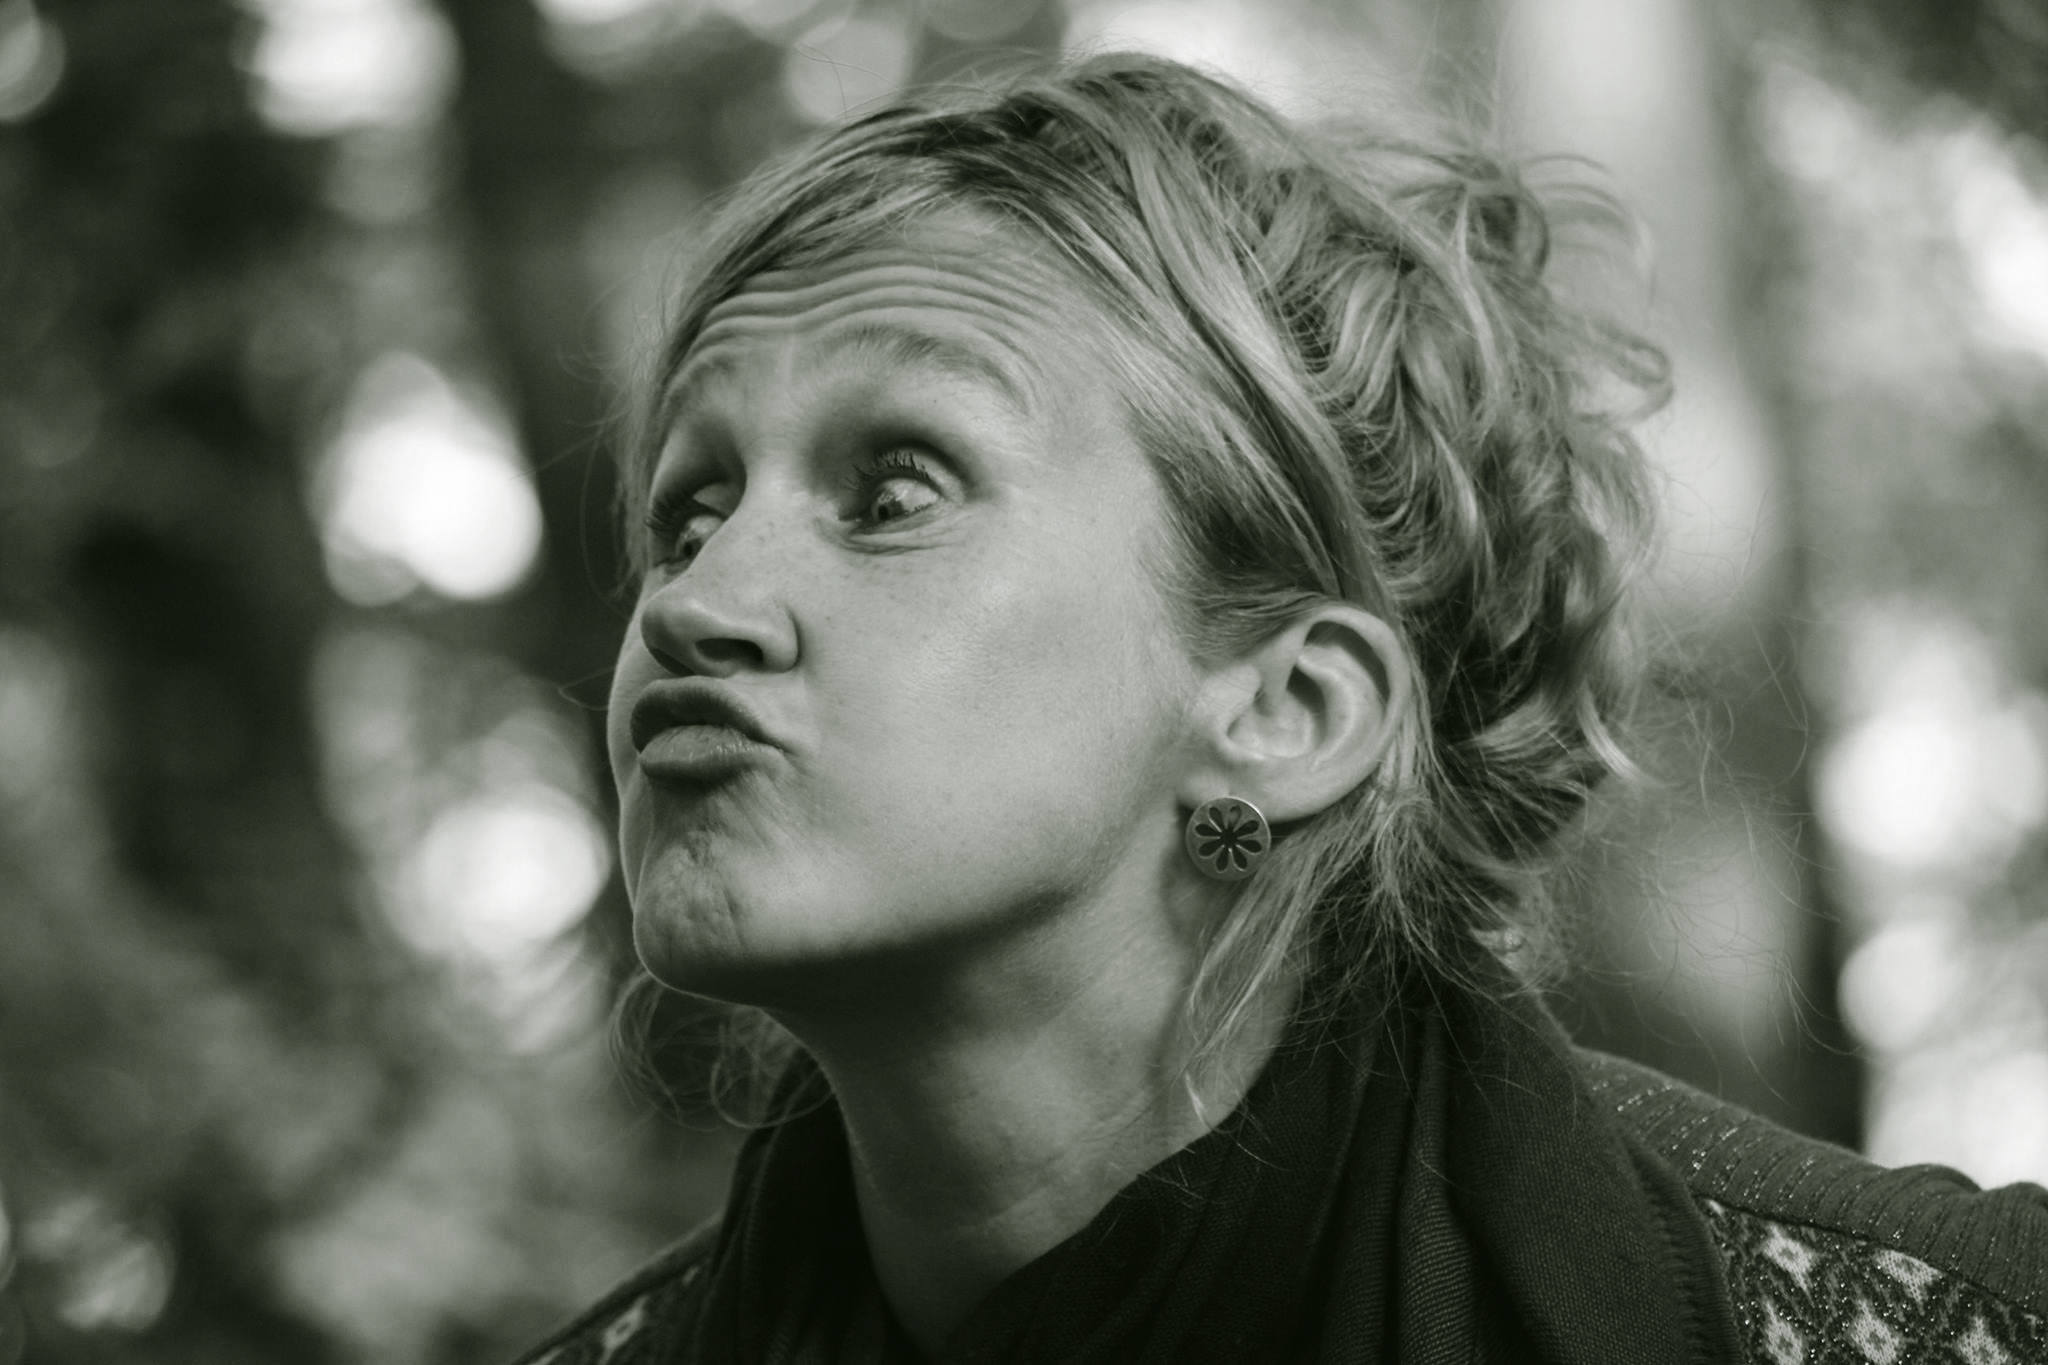
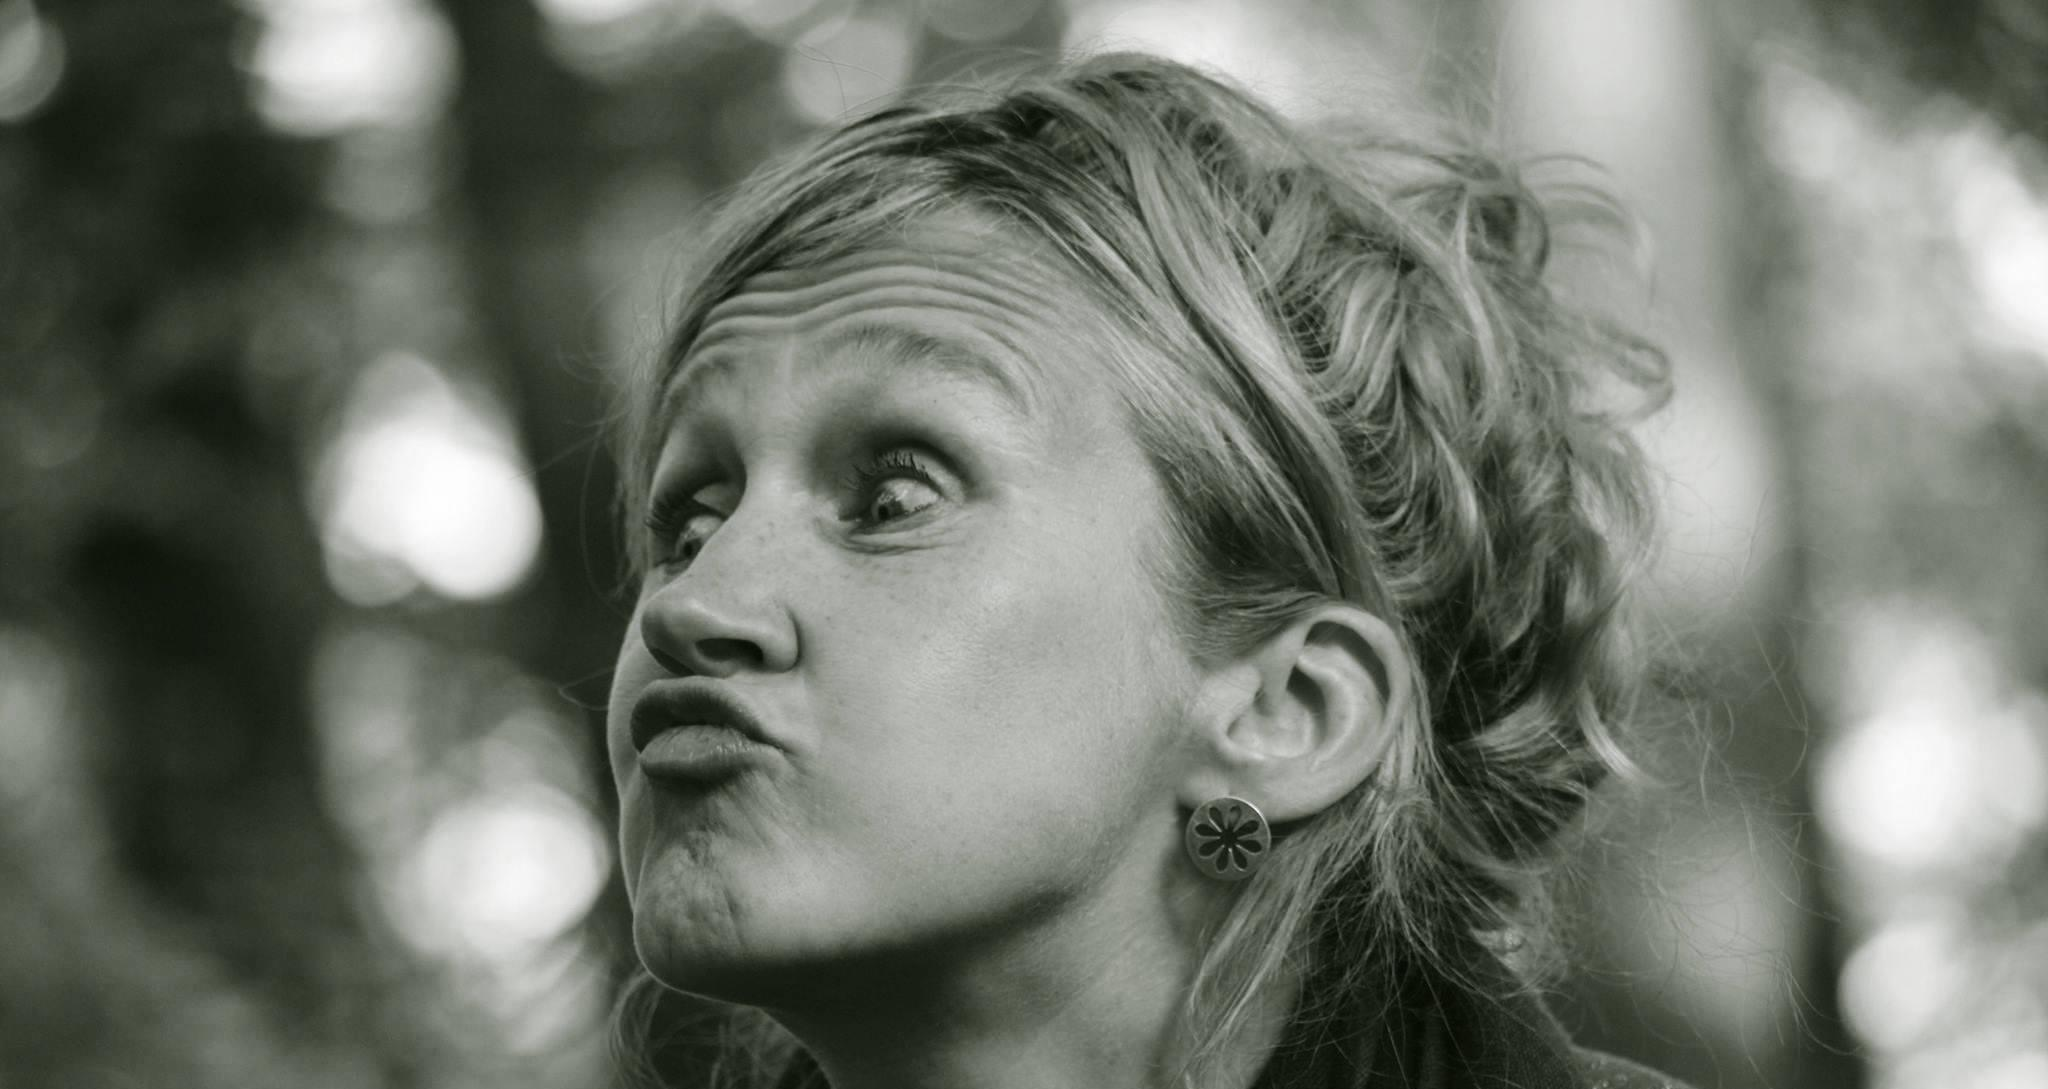
:zap: improvement(theme): crop hero images to the center

diff --git a/themes/hilde/layouts/_default/list.html b/themes/hilde/layouts/_default/list.html
@@ -5,7 +5,7 @@
 <div id="content" class="">
   {{ with .Resources.GetMatch "header" }}
   <div class="max-h-6 overflow-hidden">
-    {{ $image := .Fill "1920x720" }}
+    {{ $image := .Fill "1920x720 Center" }}
     <img src="{{ $image.RelPermalink }}" class="w-100 db" itemprop="image">
   </div>
   {{ end }}
